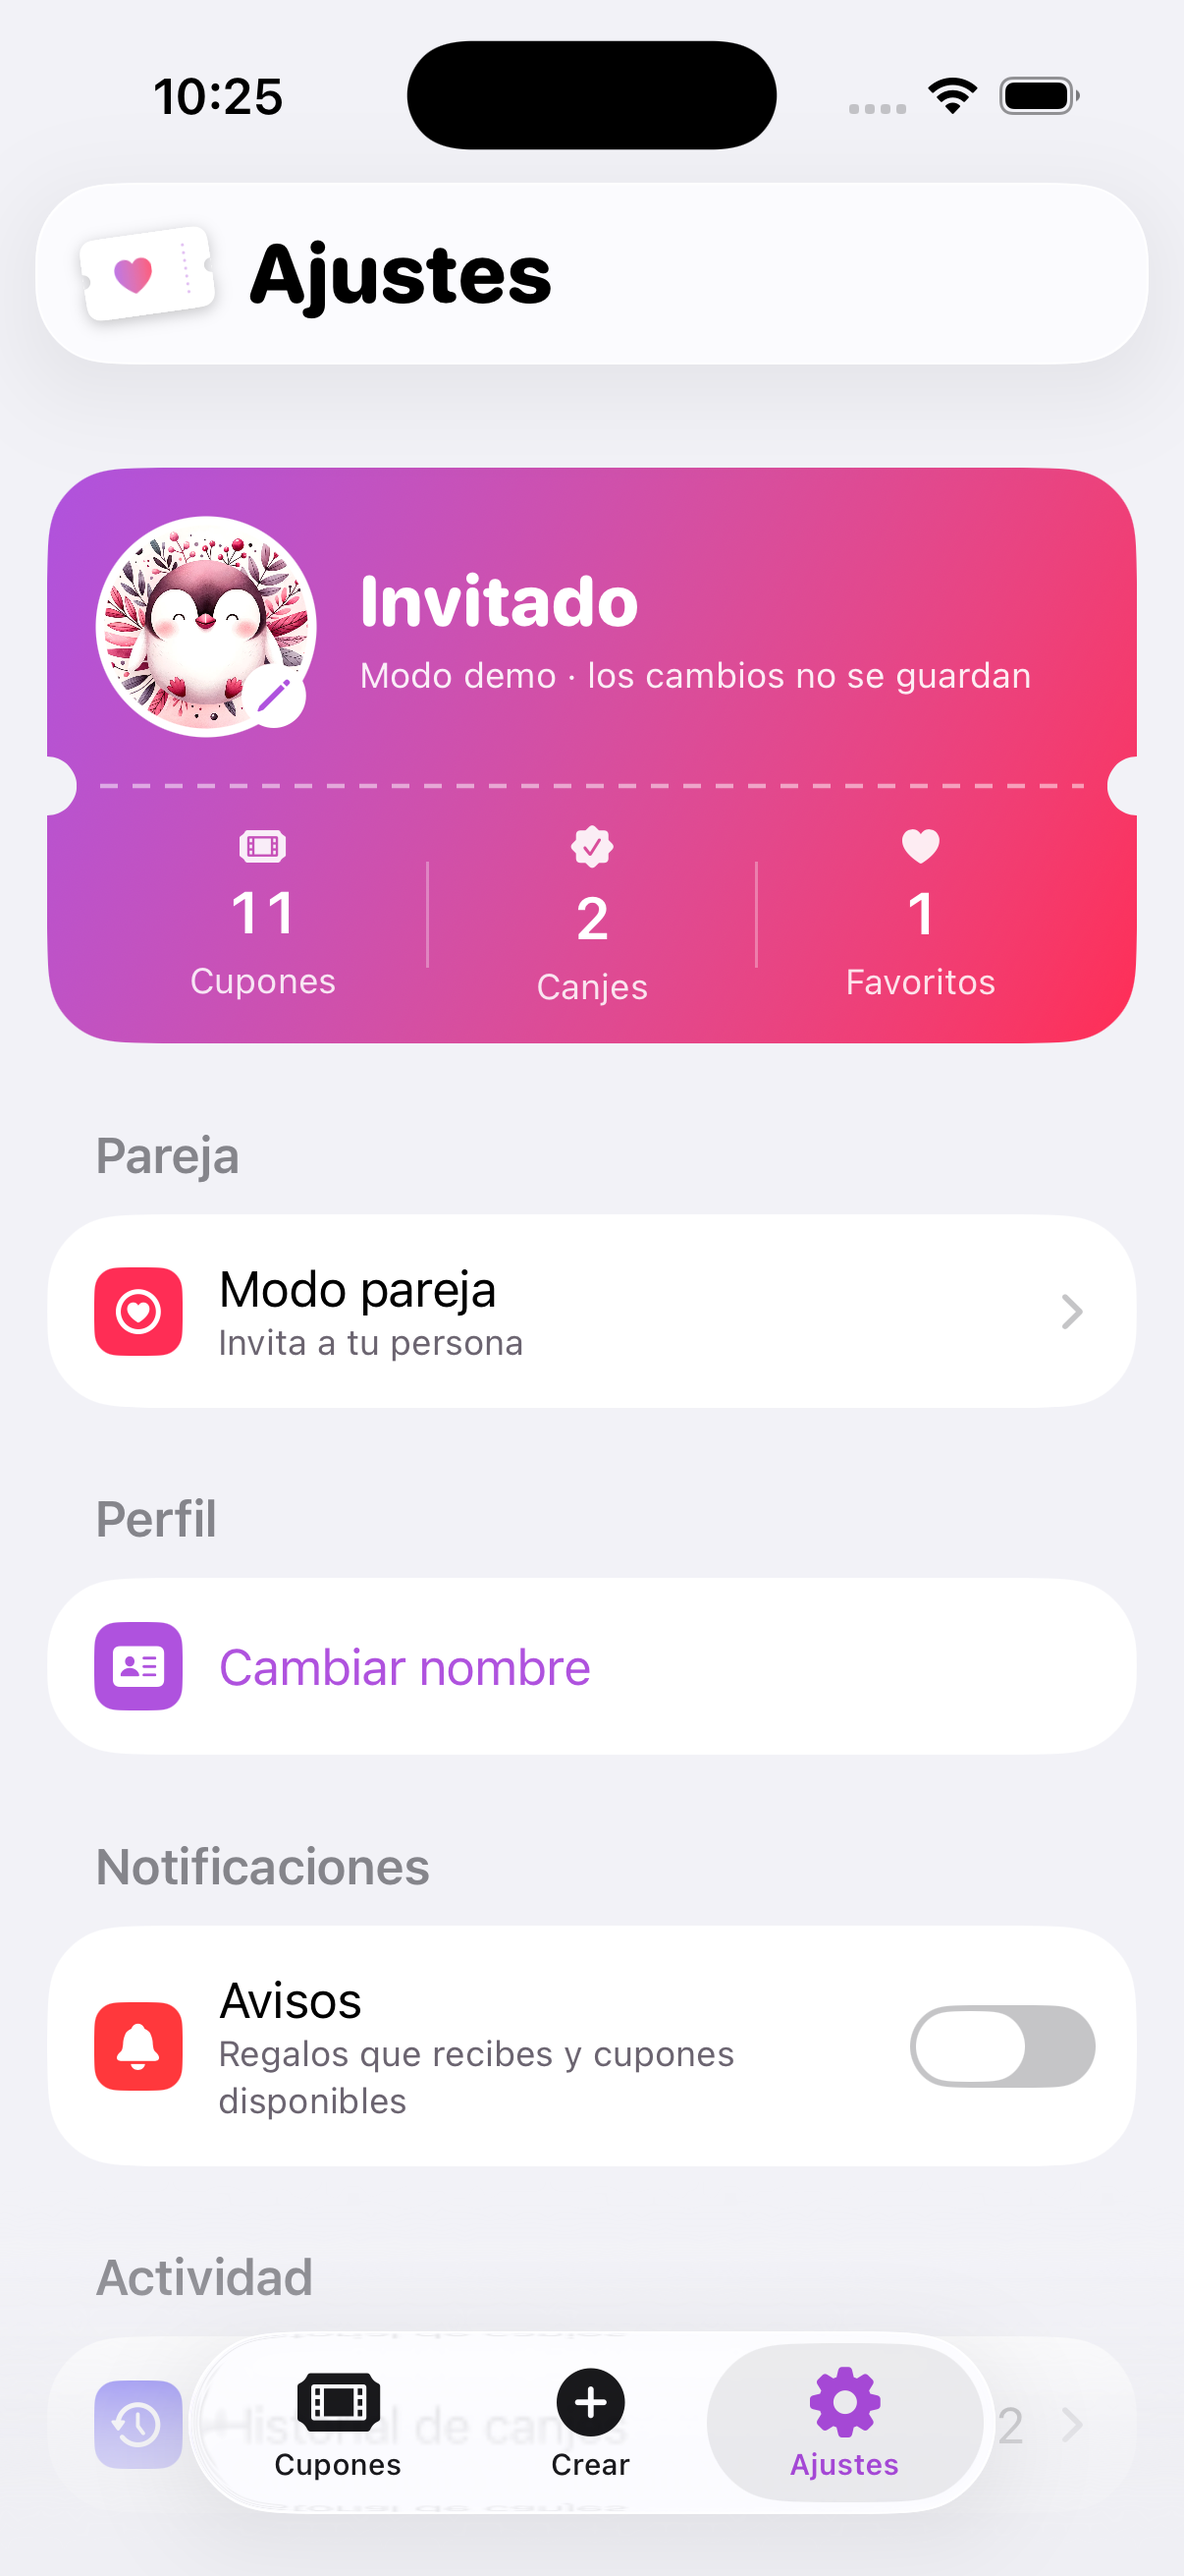
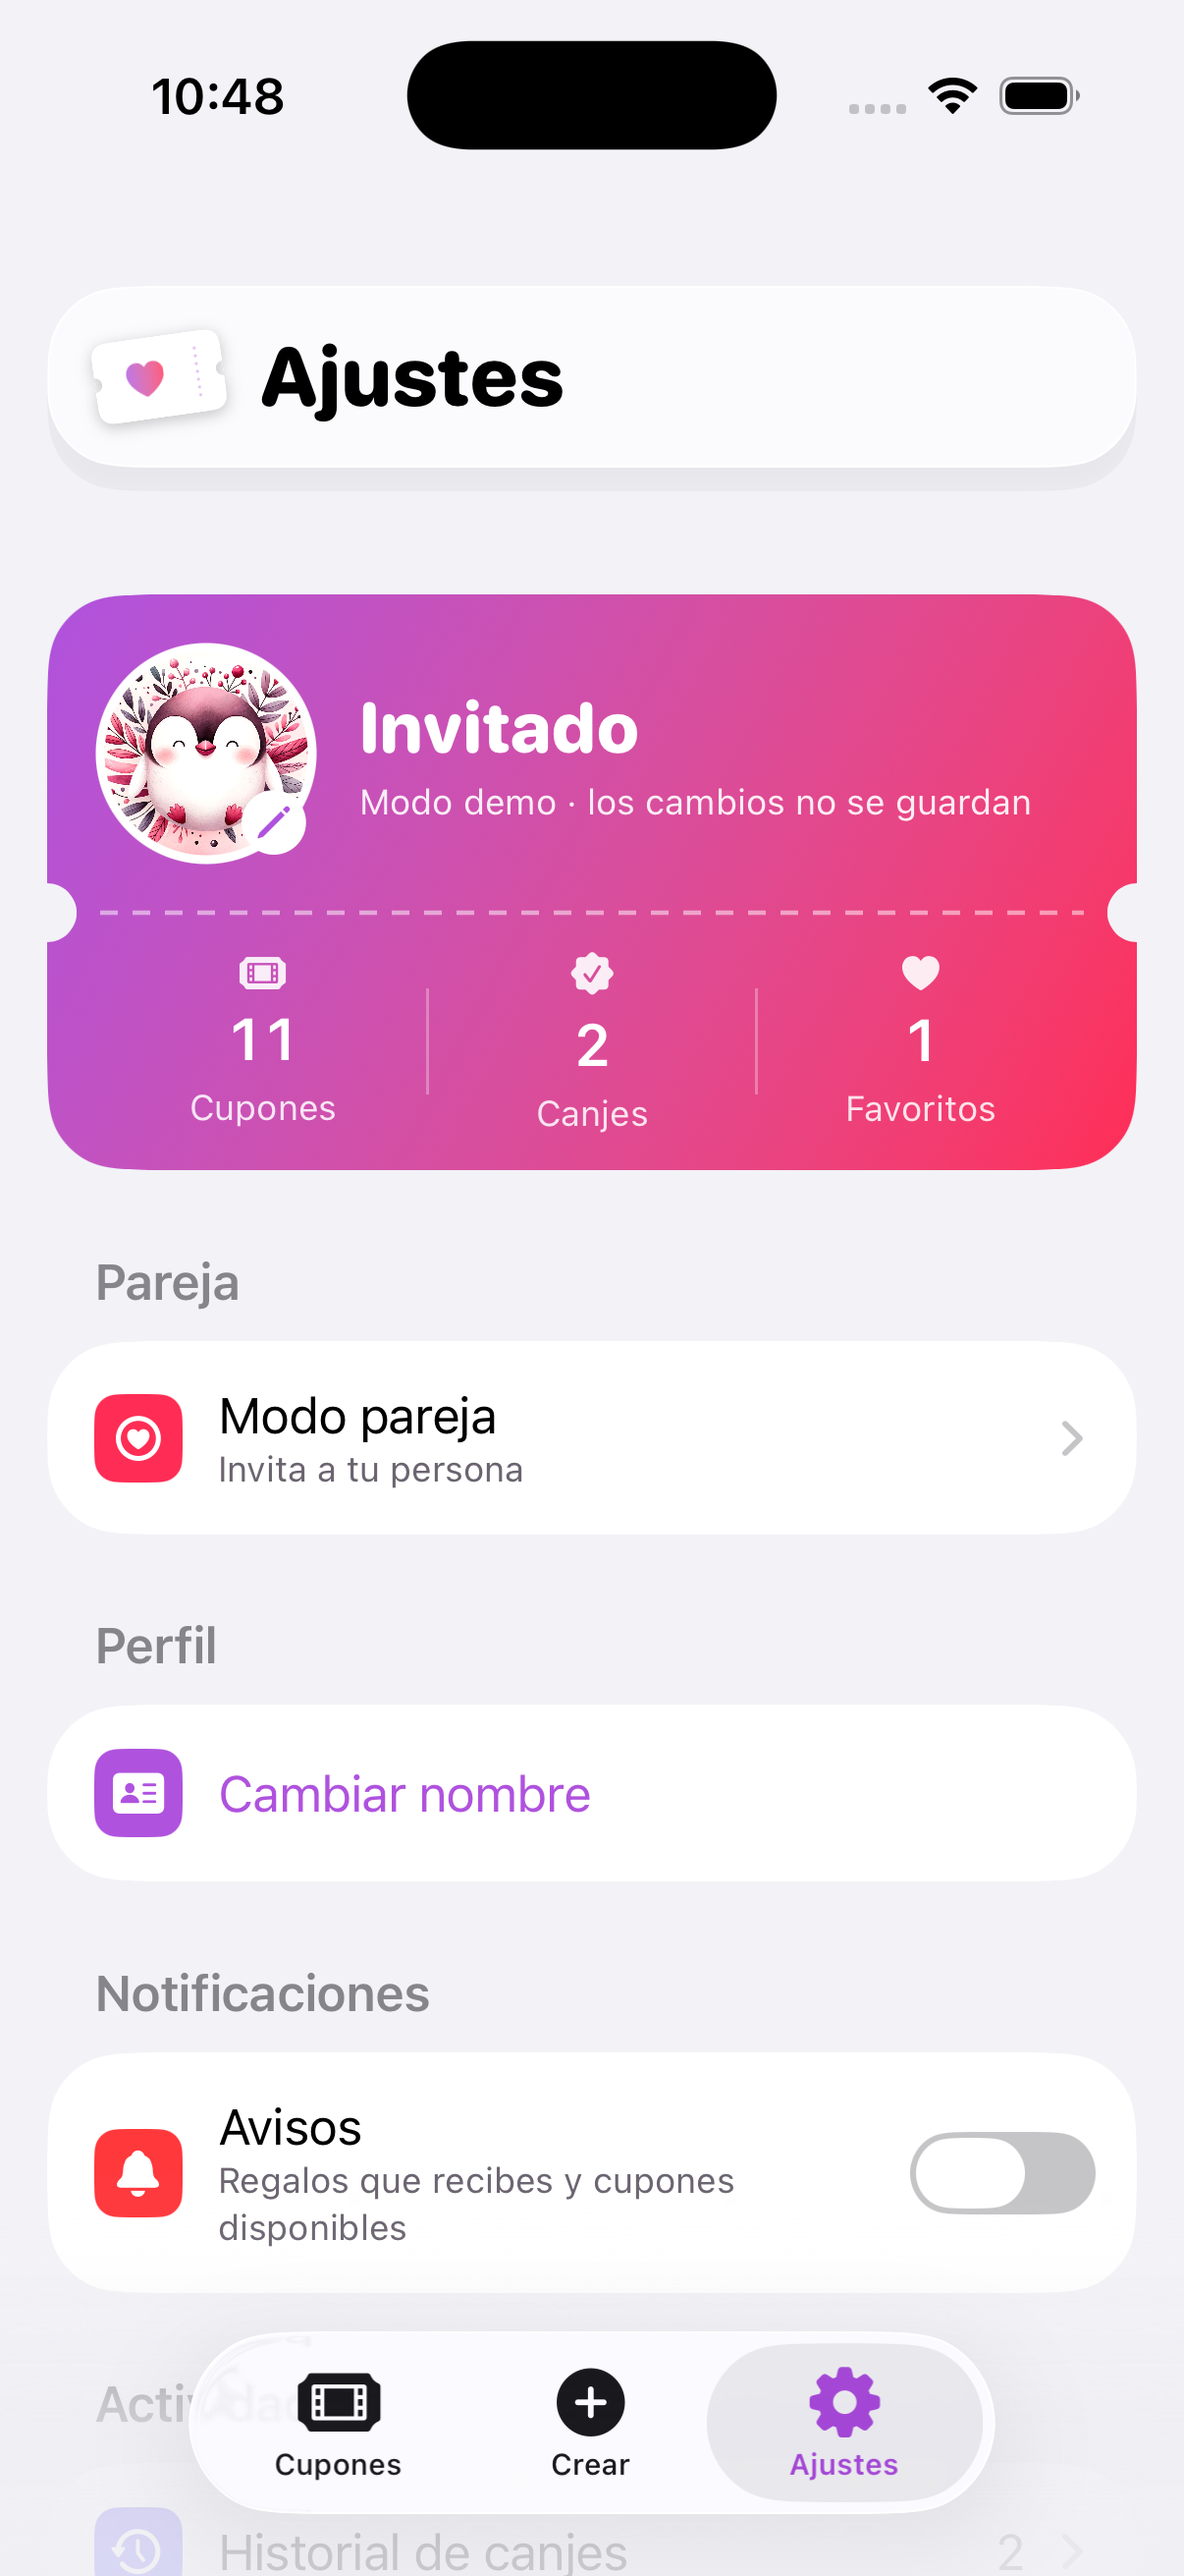
fix: cabecera colapsable robusta y sin freeze + buscador estable
El safeAreaInset de altura variable + onScrollGeometryChange tenía un
punto fijo "colapsado" en iOS 26 (la cabecera se quedaba encogida y no
volvía a expandir) y realimentaba el layout. Nuevo enfoque robusto: la
cabecera grande va DENTRO del scroll (se desplaza con el contenido) y
una CompactHeaderBar de cristal aparece en .overlay al subir — el
overlay no toca los insets, así que no hay bucle, ni atasco, ni cuelgue.

Rendimiento: el progreso de colapso vive en un @Observable (ScrollCollapse)
que solo re-dibuja la cabecera, no la lista de cupones — el scroll ya no
se congela. Buscador con relleno fijo (CuponColors.searchFill) en vez de
.primary.opacity, que parpadeaba de gris a gris claro al enfocar.

diff --git a/cuponeame/UI/Components/BrandHeader.swift b/cuponeame/UI/Components/BrandHeader.swift
@@ -1,35 +1,34 @@
 import SwiftUI
 
-/// Cabecera de cristal de las pantallas principales: mini ticket + título que
-/// encogen al hacer scroll, con buscador y contenido inferior opcionales que
-/// se pliegan. Mismo patrón que GasHeader en GasApp; se fija con
-/// `.safeAreaInset(.top)` y se alimenta con `.brandScrollTracking(_:)`.
+/// Progreso de colapso (0 = arriba, 1 = con scroll) en un objeto observable:
+/// así el scroll solo re-dibuja la barra compacta y NO la lista de cupones.
+@Observable
+final class ScrollCollapse {
+    var value: CGFloat = 0
+}
+
+/// Cabecera grande de cristal (mini ticket + título, buscador y contenido
+/// inferior opcionales). Va como PRIMER elemento del scroll y se desplaza con
+/// el contenido; al subir, `CompactHeaderBar` aparece fijada arriba.
 struct BrandHeader<Trailing: View>: View {
     let title: String
-    /// nil = sin buscador.
     var searchText: Binding<String>? = nil
-    /// 0 = expandida, 1 = colapsada.
-    var collapse: CGFloat = 0
-    /// Contenido bajo el título (p. ej. la barra de "listos"); se pliega.
     var bottom: AnyView? = nil
     @ViewBuilder var trailing: Trailing
 
     @FocusState private var searchFocused: Bool
-    @State private var bottomHeight: CGFloat = 0
-
-    private var clamped: CGFloat { min(max(collapse, 0), 1) }
 
     var body: some View {
-        VStack(spacing: 12 * (1 - clamped)) {
+        VStack(spacing: 12) {
             HStack(spacing: 12) {
-                BrandMark(width: 44 - 14 * clamped)
+                BrandMark(width: 44)
                 Text(title)
-                    .font(.system(size: 28 - 6 * clamped, weight: .heavy, design: .rounded))
+                    .font(.system(size: 28, weight: .heavy, design: .rounded))
                 Spacer()
                 trailing
             }
 
-            if let searchText, clamped < 0.99 {
+            if let searchText {
                 HStack(spacing: 10) {
                     Image(systemName: "magnifyingglass")
                         .foregroundStyle(.secondary)
@@ -49,59 +48,73 @@ struct BrandHeader<Trailing: View>: View {
                     }
                 }
                 .padding(.horizontal, 14)
-                .frame(height: 46 * (1 - clamped))
-                .background(.primary.opacity(0.06), in: Capsule())
-                .clipShape(Capsule())
-                .opacity(1 - clamped * 1.6)
+                .frame(height: 46)
+                .background(CuponColors.searchFill, in: Capsule())
             }
 
-            if let bottom, clamped < 0.99 {
+            if let bottom {
                 bottom
-                    .background {
-                        GeometryReader { geo in
-                            Color.clear
-                                .onAppear { bottomHeight = geo.size.height }
-                                .onChange(of: geo.size.height) { _, new in
-                                    if clamped == 0 { bottomHeight = new }
-                                }
-                        }
-                    }
-                    .frame(height: clamped > 0 && bottomHeight > 0
-                           ? max(bottomHeight * (1 - clamped), 0) : nil,
-                           alignment: .top)
-                    .clipped()
-                    .opacity(1 - clamped * 1.6)
             }
         }
         .padding(.horizontal, 16)
-        .padding(.vertical, 14 - 4 * clamped)
+        .padding(.vertical, 14)
         .cuponGlass(cornerRadius: 26)
-        .padding(.horizontal, 12)
     }
 }
 
 extension BrandHeader where Trailing == EmptyView {
-    init(_ title: String, searchText: Binding<String>? = nil, collapse: CGFloat = 0,
-         bottom: AnyView? = nil) {
-        self.init(title: title, searchText: searchText, collapse: collapse,
-                  bottom: bottom) { EmptyView() }
+    init(_ title: String, searchText: Binding<String>? = nil, bottom: AnyView? = nil) {
+        self.init(title: title, searchText: searchText, bottom: bottom) { EmptyView() }
+    }
+}
+
+/// Barra compacta de cristal que se fija arriba y aparece al hacer scroll.
+/// Al ir en `.overlay` NO cambia los insets del scroll: nada de bucles ni
+/// atascos como con un `safeAreaInset` de altura variable.
+struct CompactHeaderBar<Trailing: View>: View {
+    let title: String
+    var collapse: ScrollCollapse
+    @ViewBuilder var trailing: Trailing
+
+    private var shown: CGFloat { min(max(collapse.value, 0), 1) }
+
+    var body: some View {
+        HStack(spacing: 12) {
+            BrandMark(width: 30)
+            Text(title)
+                .font(.system(size: 20, weight: .heavy, design: .rounded))
+            Spacer()
+            trailing
+        }
+        .padding(.horizontal, 16)
+        .padding(.vertical, 9)
+        .cuponGlass(cornerRadius: 22)
+        .padding(.horizontal, 12)
+        .opacity(shown)
+        .allowsHitTesting(shown > 0.5)
+    }
+}
+
+extension CompactHeaderBar where Trailing == EmptyView {
+    init(_ title: String, collapse: ScrollCollapse) {
+        self.init(title: title, collapse: collapse) { EmptyView() }
     }
 }
 
 extension View {
-    /// Alimenta el colapso de `BrandHeader` desde el scroll (iOS 18+).
+    /// Alimenta el colapso desde el scroll (iOS 18+). Con la cabecera dentro del
+    /// scroll (sin safeAreaInset variable), `contentOffset.y + contentInsets.top`
+    /// es la distancia real desde arriba (0 en reposo) y el inset es constante.
     @ViewBuilder
-    func brandScrollTracking(_ collapse: Binding<CGFloat>) -> some View {
+    func brandScrollTracking(_ collapse: ScrollCollapse) -> some View {
         if #available(iOS 18.0, *) {
-            // `contentOffset.y + contentInsets.top` es la distancia real de
-            // scroll, independiente de que la cabecera (safeAreaInset) cambie de
-            // alto: en reposo siempre vale 0. El umbral evita micro-actualizaciones.
             onScrollGeometryChange(for: CGFloat.self) { geo in
                 geo.contentOffset.y + geo.contentInsets.top
             } action: { _, value in
-                let next = min(max(value / 70, 0), 1)
-                if abs(next - collapse.wrappedValue) > 0.01 {
-                    collapse.wrappedValue = next
+                // Aparece la barra compacta entre 40 y 110 pt de scroll.
+                let next = min(max((value - 40) / 70, 0), 1)
+                if abs(next - collapse.value) > 0.02 {
+                    collapse.value = next
                 }
             }
         } else {

diff --git a/cuponeame/UI/Coupons/CouponListScreen.swift b/cuponeame/UI/Coupons/CouponListScreen.swift
@@ -30,12 +30,14 @@ struct CouponListScreen: View {
         }
     }
 
-    @State private var headerCollapse: CGFloat = 0
+    @State private var headerCollapse = ScrollCollapse()
 
     var body: some View {
         NavigationStack {
             ScrollView {
                 VStack(spacing: 16) {
+                    header
+
                     if store.coupons.isEmpty {
                         emptyState
                             .padding(.top, 40)
@@ -68,10 +70,15 @@ struct CouponListScreen: View {
                 }
                 .padding()
             }
-            .brandScrollTracking($headerCollapse)
+            .brandScrollTracking(headerCollapse)
             .background(CuponColors.background)
             .scrollDismissesKeyboard(.interactively)
-            .safeAreaInset(edge: .top, spacing: 0) { header }
+            .overlay(alignment: .top) {
+                CompactHeaderBar(title: "Cupones", collapse: headerCollapse) {
+                    AvatarView(emoji: auth.avatar, size: 30)
+                        .overlay(Circle().stroke(CuponColors.brandStroke, lineWidth: 1.5))
+                }
+            }
             .toolbar(.hidden, for: .navigationBar)
             .navigationDestination(for: String.self) { id in
                 CouponDetailScreen(couponID: id)
@@ -86,9 +93,8 @@ struct CouponListScreen: View {
     private var header: some View {
         BrandHeader(title: "Cupones",
                     searchText: store.coupons.isEmpty ? nil : $searchText,
-                    collapse: headerCollapse,
                     bottom: store.coupons.isEmpty ? nil : AnyView(readyBar)) {
-            AvatarView(emoji: auth.avatar, size: 40 - 6 * min(max(headerCollapse, 0), 1))
+            AvatarView(emoji: auth.avatar, size: 40)
                 .overlay(Circle().stroke(CuponColors.brandStroke, lineWidth: 2))
         }
     }

diff --git a/cuponeame/UI/Create/CreateHubScreen.swift b/cuponeame/UI/Create/CreateHubScreen.swift
@@ -6,7 +6,7 @@ import SwiftUI
 struct CreateHubScreen: View {
     @Environment(AuthService.self) private var auth
 
-    @State private var headerCollapse: CGFloat = 0
+    @State private var headerCollapse = ScrollCollapse()
 
     private let ideaColumns = [GridItem(.flexible(), spacing: 12),
                                GridItem(.flexible(), spacing: 12)]
@@ -15,6 +15,8 @@ struct CreateHubScreen: View {
         NavigationStack {
             ScrollView {
                 VStack(spacing: 20) {
+                    BrandHeader("Crear")
+
                     primaryCard
 
                     partnerCard
@@ -23,10 +25,10 @@ struct CreateHubScreen: View {
                 }
                 .padding(16)
             }
-            .brandScrollTracking($headerCollapse)
+            .brandScrollTracking(headerCollapse)
             .background(CuponColors.background)
-            .safeAreaInset(edge: .top, spacing: 0) {
-                BrandHeader("Crear", collapse: headerCollapse)
+            .overlay(alignment: .top) {
+                CompactHeaderBar("Crear", collapse: headerCollapse)
             }
             .toolbar(.hidden, for: .navigationBar)
             .navigationDestination(for: Route.self) { route in

diff --git a/cuponeame/UI/Settings/SettingsScreen.swift b/cuponeame/UI/Settings/SettingsScreen.swift
@@ -14,11 +14,17 @@ struct SettingsScreen: View {
     @State private var showAvatarPicker = false
     @State private var passwordResetSent = false
     @State private var notifsDenied = false
-    @State private var headerCollapse: CGFloat = 0
+    @State private var headerCollapse = ScrollCollapse()
 
     var body: some View {
         NavigationStack {
             Form {
+                Section {
+                    BrandHeader("Ajustes")
+                }
+                .listRowBackground(Color.clear)
+                .listRowInsets(EdgeInsets(top: 0, leading: 0, bottom: 8, trailing: 0))
+
                 profileCard
 
                 Section("Pareja") {
@@ -140,9 +146,9 @@ struct SettingsScreen: View {
                     }
                 }
             }
-            .brandScrollTracking($headerCollapse)
-            .safeAreaInset(edge: .top, spacing: 0) {
-                BrandHeader("Ajustes", collapse: headerCollapse)
+            .brandScrollTracking(headerCollapse)
+            .overlay(alignment: .top) {
+                CompactHeaderBar("Ajustes", collapse: headerCollapse)
             }
             .toolbar(.hidden, for: .navigationBar)
             .task {

diff --git a/cuponeame/UI/Theme/Theme.swift b/cuponeame/UI/Theme/Theme.swift
@@ -11,6 +11,8 @@ enum CuponColors {
     static let background = adaptive(light: 0xFAF7FC, dark: 0x140F1A)
     static let surface = adaptive(light: 0xFFFFFF, dark: 0x1D1626)
     static let subtleText = adaptive(light: 0x6B6470, dark: 0xA9A1B0)
+    /// Relleno fijo del buscador (no depende de .primary, que parpadea al enfocar).
+    static let searchFill = adaptive(light: 0xEFEAF2, dark: 0x2A2233)
 
     /// Gradiente de marca (botones destacados, fondos de auth).
     static var brandGradient: LinearGradient {
